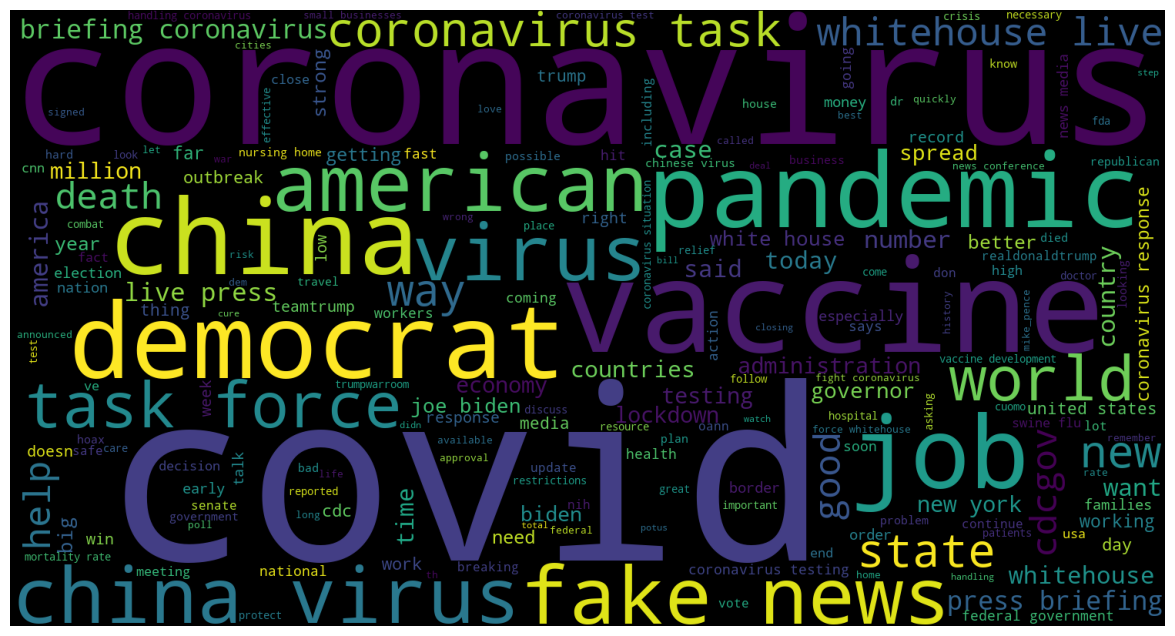
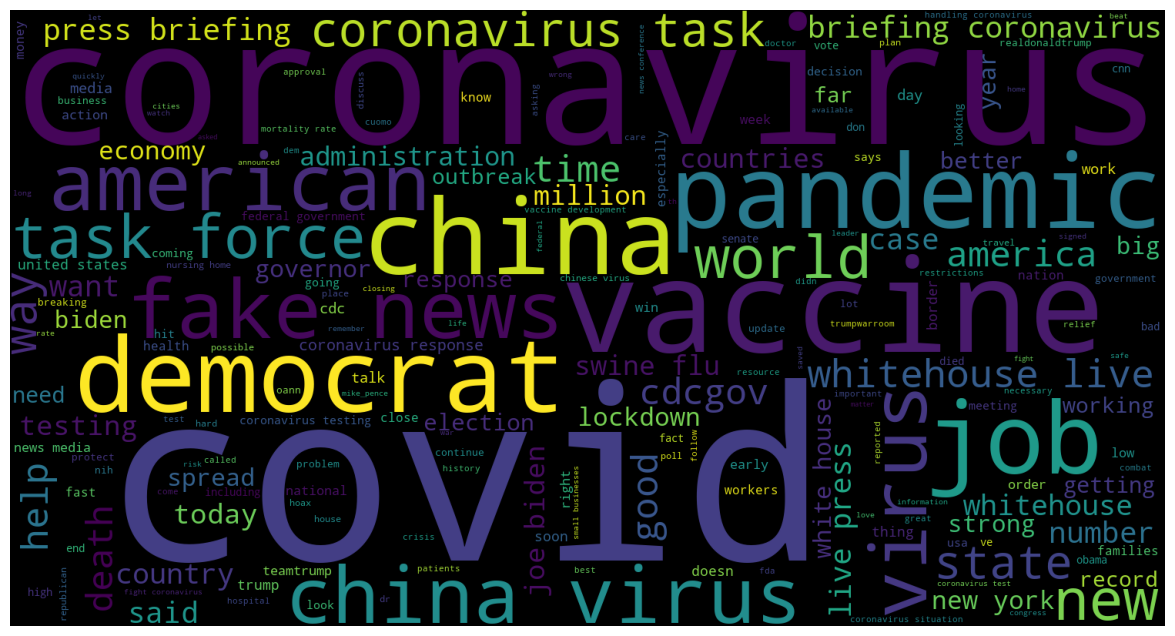
mich2

diff --git a/index.md b/index.md
@@ -69,23 +69,33 @@ known to have a detrimental impact on crisis management.
 
 ### Anatomy of "The Donald" Twitter Account
 
-Now we want to know a little bit better our main character of this datastory. For this purpose we will analize its tweets. One could argue that it is impossible to understand a person just looking at what he tweeted, the sample is just too small. Well, this is certanly not the case!
+Now we want to know a little bit better our main character of this datastory. For this purpose we will analize his tweets. One could argue that it is impossible to understand a person just looking at what he tweeted, the sample is just too small. Well, this is certanly not the case!
 
 <div class="internet">
     <img src="assets/img/trump_tweets_michi1.png" style="display: block; margin: 0 auto; width: 80%;"/>
 </div>
 
 As you can see it seems that Trump is always tweeting! 
-The numbers are just too good to be true. In the period we are considering, which is the entire 2020, he tweeted/retweeted every day, with a mean of more than 33 tweets per day and peaks of as much as 150 tweets/retweets in one single day. Considering a day consisting in 16 hours of wake time, on average he posted one tweet/retweet every half an hour every day for an entire year. The good news are not even finishe, he is not just speaking on his own, but he reaches millions of people. This is testimonied by the millions of likes (almost 2 millions a day on average) and thousands of retweets (more than 600 hundred thousant a day on average). 
+The numbers are just too good to be true. In the period we are considering, which is the entire 2020, he tweeted/retweeted every day, with a mean of more than 33 tweets per day and peaks of as much as 150 tweets/retweets in one single day. Considering a day consisting in 16 hours of wake time, on average he posted one tweet/retweet every half an hour every day for an entire year. The good news are not even finished, he is not just speaking on his own, but he reaches millions of people. This is testimonied by the millions of likes (almost 2 millions a day on average) and thousands of retweets (more than 600 hundred thousant a day on average). 
 
 Now we know that we know that there is a lot to work on, we want to understand the character. In order to know him better we want to see what is most interested about. We extrapolated this information visualizing his most used words.
 
 <div class="internet">
     <img src="assets/img/world_cloud_michi2.png" style="display: block; margin: 0 auto; width: 80%;"/>
 </div>
+
+We can see that most of his favorites words are related to his continous political campaign. We notice the words "vote", "election", "WhiteHouse", but also many regarding his opponent Joe Biden and his political faction of the democrats. You can also see his favourite disrispectful nickname given to Biden of "Sleepy Joe". 
+It is clear how you can understand a lot of a person just looking at his tweets if he tweets 30 times a day!
+In fact, if you look closely also much more interesting words like "Coronavirus", "China" and "Fake News" appear. 
+Let's filter the tweets using some keywords related to covid to see if something interesting appears.
+
 <div class="internet">
     <img src="assets/img/world_cloud_covid_michi3.png" style="display: block; margin: 0 auto; width: 80%;"/>
 </div>
+
+Of course filterning with covid as a keyword, it will become the most searched one. But some interesting words like "swine flu" and "china virus" start popping up, and "fake news" becomes much more important. 
+This sproned us to 
+
 <div class="internet">
     <img src="assets/img/covid_perc_michi4.png" style="display: block; margin: 0 auto; width: 80%;"/>
 </div>
